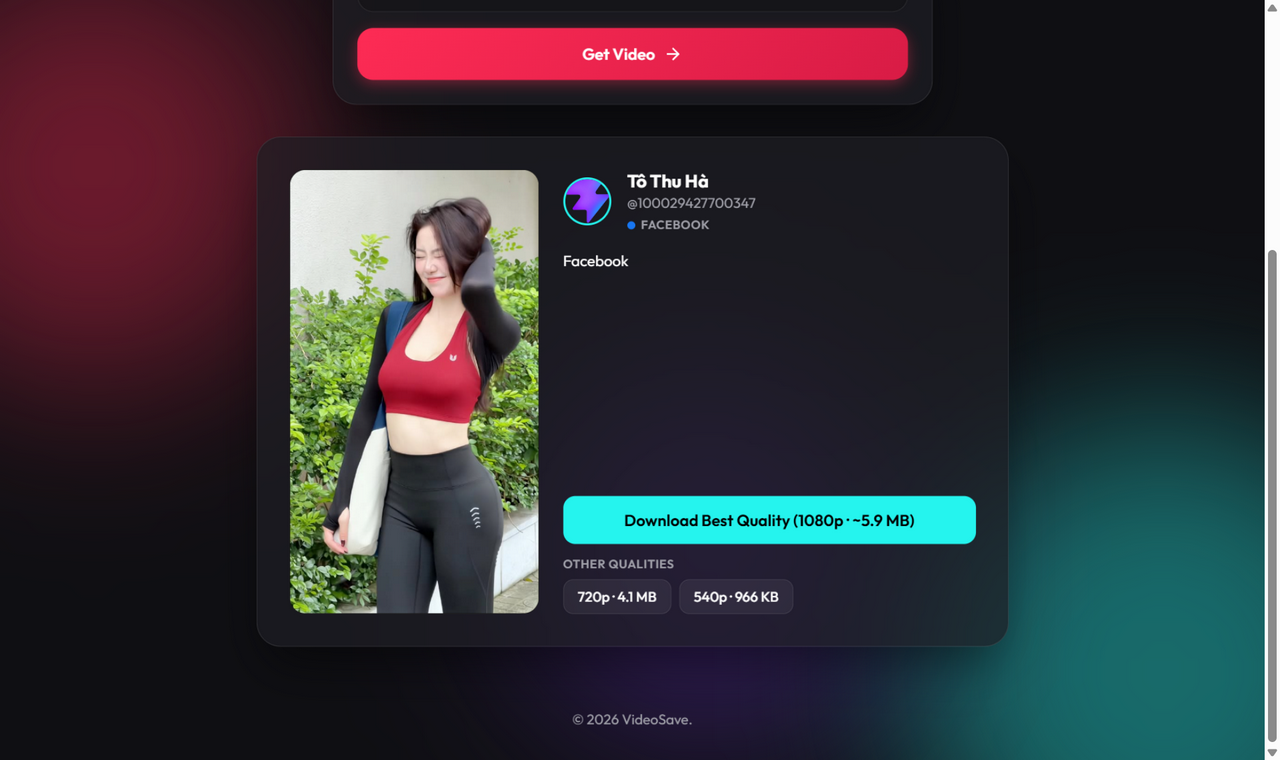
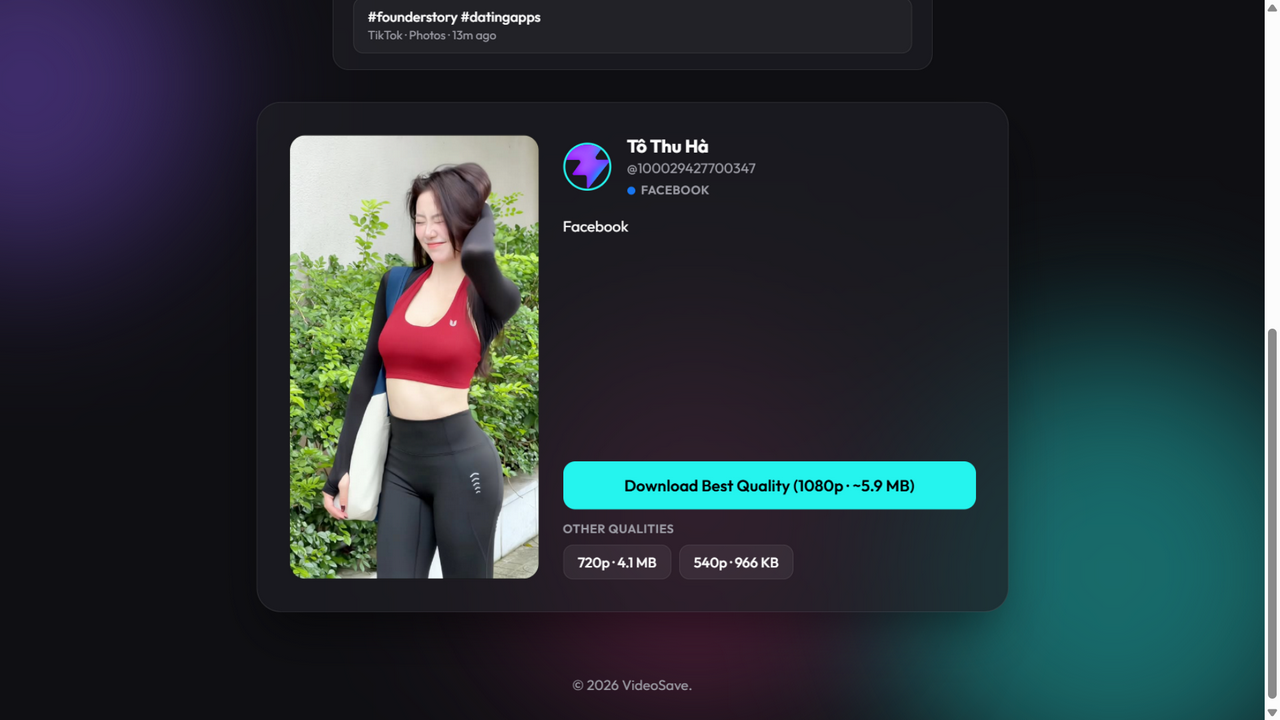
Refresh brand palette: neutral violet-cyan, drop TikTok pink
- Primary: #8b5cf6 (violet) with #6d28d9 gradient, purple glows
- Background blobs: violet / pink / teal mix
- Logo gradient and favicon already violet-cyan
- Error reds kept semantic; layout, fonts, animation untouched
- README screenshots re-captured with the new look

diff --git a/src/style.css b/src/style.css
@@ -1,5 +1,5 @@
 :root {
-  --primary: #fe2c55;
+  --primary: #8b5cf6;
   --secondary: #25f4ee;
   --bg: #0f0f13;
   --surface: rgba(30, 30, 36, 0.7);
@@ -68,7 +68,7 @@ body {
 .blob-3 {
   width: 300px;
   height: 300px;
-  background: #7c3aed;
+  background: #ec4899;
   top: 40%;
   left: 40%;
   animation-delay: -10s;
@@ -221,7 +221,7 @@ header {
 }
 
 .primary-btn {
-  background: linear-gradient(135deg, var(--primary), #d91c46);
+  background: linear-gradient(135deg, var(--primary), #6d28d9);
   color: white;
   border: none;
   border-radius: 1rem;
@@ -235,12 +235,12 @@ header {
   justify-content: center;
   gap: 0.5rem;
   transition: all 0.3s ease;
-  box-shadow: 0 4px 14px 0 rgba(254, 44, 85, 0.39);
+  box-shadow: 0 4px 14px 0 rgba(139, 92, 246, 0.39);
 }
 
 .primary-btn:hover {
   transform: translateY(-2px);
-  box-shadow: 0 6px 20px rgba(254, 44, 85, 0.5);
+  box-shadow: 0 6px 20px rgba(139, 92, 246, 0.5);
 }
 
 .primary-btn:active {
@@ -608,8 +608,8 @@ header {
 }
 
 .history-clear:hover {
-  color: var(--primary);
-  background: rgba(254, 44, 85, 0.08);
+  color: #c4b5fd;
+  background: rgba(139, 92, 246, 0.12);
 }
 
 .history-list {

diff --git a/index.html b/index.html
@@ -29,7 +29,7 @@
           stroke-linecap="round" stroke-linejoin="round">
           <defs>
             <linearGradient id="gradient" x1="0%" y1="0%" x2="100%" y2="100%">
-              <stop offset="0%" stop-color="#fe2c55" />
+              <stop offset="0%" stop-color="#8b5cf6" />
               <stop offset="100%" stop-color="#25f4ee" />
             </linearGradient>
           </defs>
